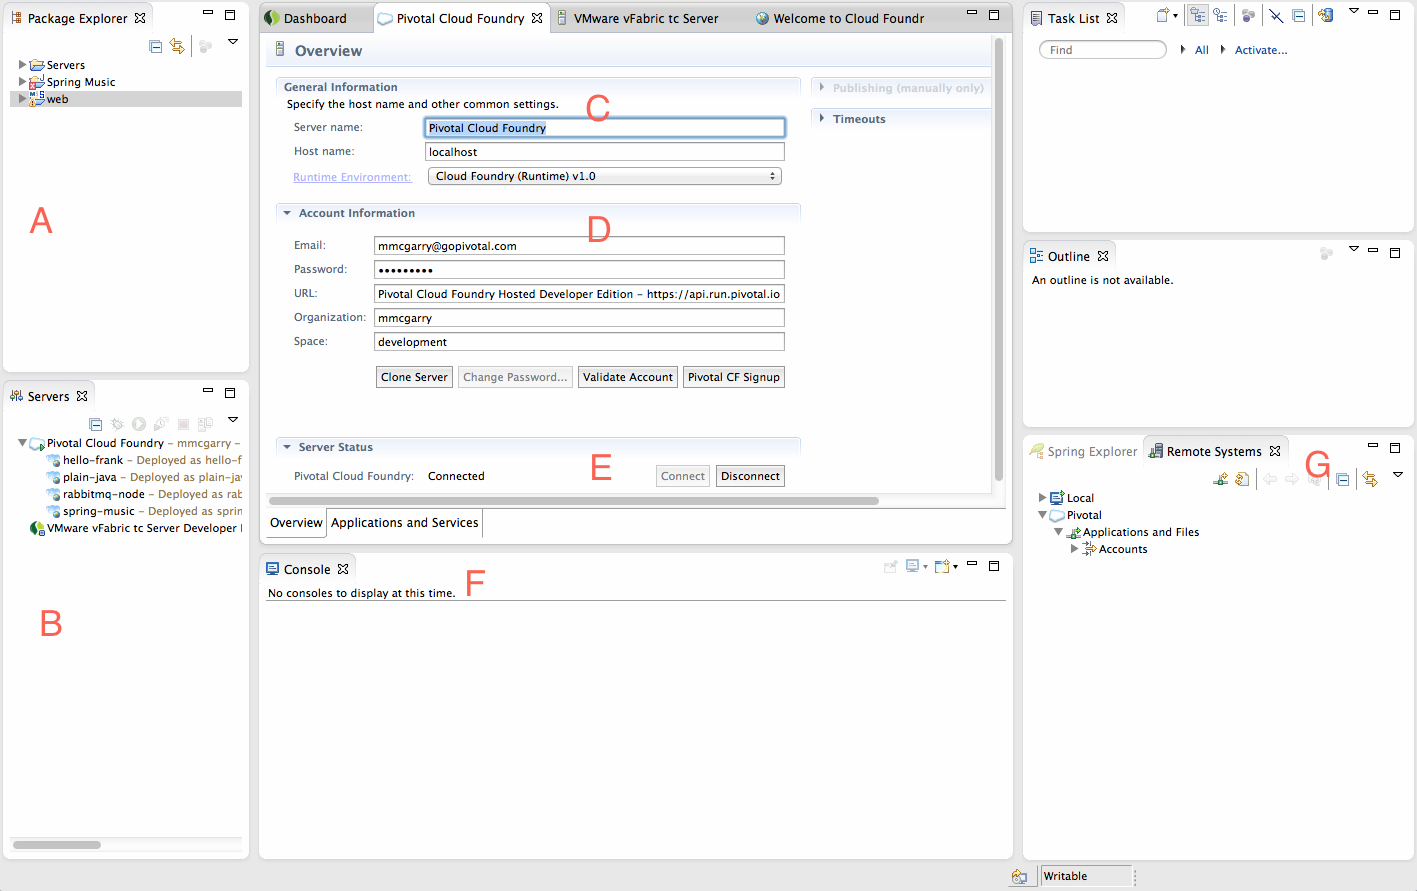
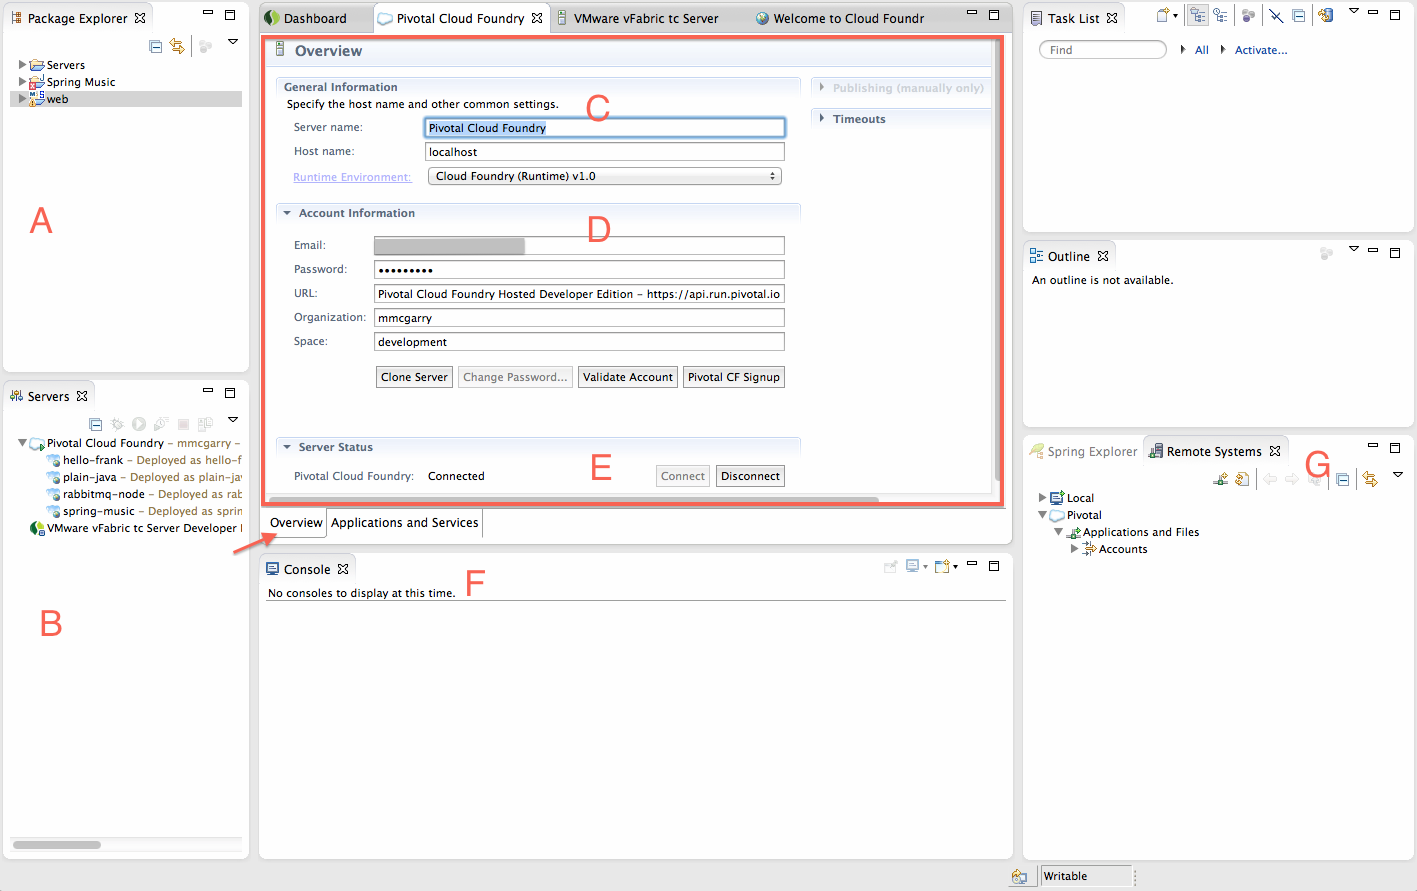
sts plugin

diff --git a/source/docs/using/managing-apps/ide/sts.html.md b/source/docs/using/managing-apps/ide/sts.html.md
@@ -4,15 +4,15 @@ title: Cloud Foundry Eclipse Plugin
 
 **5 September 2013 - This page is a work in progress, and contains information that is subject to review, correction, and enhancement.**
 
-The Cloud Foundry Eclipse is a plugin for Eclipse and Spring Tools Suite (STS) for deploying and managing Java and Spring applications on Cloud Foundry. 
+The Cloud Foundry Eclipse Plugin is an extension that enables Cloud Foundry users to deploy and manage Java and Spring applications on a Cloud Foundry instance from Eclipse or Spring Tools Suite (STS).
 
-The plugin supports Eclipse v3.8 and v4.3 (a JEE version is recommended(, and STS 3.0.0 and later.
+The plugin supports Eclipse v3.8 and v4.3 (a JEE version is recommended), and STS 3.0.0 and later.
 
 This page has instructions for installing and using v1.5.1 of the plugin, which is compatible with Cloud Foundry v2.
 
 You can use the plugin to:
 
-* Deploy applications from an Eclipse or STS workspace to a running Cloud Foundry instance. the plugin supports Spring, Java, Java standalone, Web, Grails, and Lift application.
+* Deploy applications from an Eclipse or STS workspace to a running Cloud Foundry instance. The plugin supports Spring, Java, Java standalone, Web, Grails, and Lift applications.
 * Create, bind, and unbind services.
 * View and manage deployed applications and services.
 * Start and stop applications.
@@ -27,16 +27,16 @@ v1.5.1 of the plugin provides several new features:
 The sections below have instructions for installing the Cloud Foundry Eclipse Plugin.
 ### <a id='install-to-eclipse'></a>Install to Eclipse from Marketplace ###
 
-Follow these instructions to instally the Cloud Foundry Eclipse Plugin to Eclipse from the Eclipse Marketplace.
+Follow these instructions to install the Cloud Foundry Eclipse Plugin to Eclipse from the Eclipse Marketplace. If you are installing the plugin to STS, see the following section [Install to STS from Extensions Tab](#install-to-sts).
 
 1. Start Eclipse
 1. Select **Eclipse Marketplace** from the Eclipse **Help** menu.
+1. On the marketplace window, enter "Cloud Foundry" in the **Find** field, and click **Go**.
+1. In the search results, click the **Install** control next to the listing for Cloud Foundry Integration.
 
   <img src="/images/sts/eclipse-marketplace.png"/>  
 
-1. On the marketplace pane, enter "Cloud Foundry" in the **Find** field, and click **Go**.
-1. In the search results, click the **Install** control next to the listing for CLoud Foundry Integration.
-1. On the **Confirm Selected Features" pane, click **Confirm**.
+1. The **Confirm Selected Features** window lists the plugin --- "Cloud Foundry Integration for Eclipse" --- and the optional "SpringSource UAA Integration" component, which reports tool usage data, anonymously. If you prefer that your plugin usage statistics not be reported, de-select the UAA component before clicking **Confirm**.
 
      <img src="/images/sts/confirm-selected-features.png" />
 
@@ -47,16 +47,16 @@ Follow these instructions to instally the Cloud Foundry Eclipse Plugin to Eclips
 
 ### <a id='install-to-sts'></a>Install to STS from Extensions Tab ###
 
-Follow these instructions to instally the Cloud Foundry Eclipse Plugin to STS from the Extensions tab.
+Follow these instructions to install the Cloud Foundry Eclipse Plugin to STS from the **Extensions** tab.
 
 1. Start STS.
 1. Select the **Extensions** tab from the STS Dashboard.
-1. Enter "Cloud Foundry in the **Find** field.
+1. Enter "Cloud Foundry" in the **Find** field.
 1. Select **Cloud Foundry Integration for Eclipse** and click **Install**.
 
   <img src="/images/sts/extensions.png" />
 
-1. The **Install** window lists the plugin --- "Cloud Foundry Integration for Eclipse" --- and the optional "Spring UAA Integration" component, which reports tool usage data, anonymously. If you prefer that your plugin usage statistics not be reported, deselect the UAA component beform clicking  **Next**.
+1. The **Install** window lists the plugin --- "Cloud Foundry Integration for Eclipse" --- and the optional "Spring UAA Integration" component, which reports tool usage data, anonymously. If you prefer that your plugin usage statistics not be reported, de-select the UAA component beform clicking  **Next**.
 
   <img src="/images/sts/install.png"/>
 
@@ -70,25 +70,21 @@ Follow these instructions to instally the Cloud Foundry Eclipse Plugin to STS fr
 
      <img src="/images/sts/restart-sts.png" />
 
-1. After STS restarts, you can see the new panes in the Editor portion of the screen.
-
-     <img src="/images/sts/plugin.png" style="width: 1100px;"/>
-
-1. Installation is complete. Proceed to [Create a Cloud Foundry Server](#cloud-foundry-server).
+1. After STS restarts, you can see new panes in the Editor portion of the screen. See [About the Plugin User Interface](#plugin-ui) below for a description of the plugin tabs and the information in each.
+1. Proceed to [Create a Cloud Foundry Server](#cloud-foundry-server).
 
 ## <a id='cloud-foundry-server'></a>Create a Cloud Foundry Server ##
 
-This section has instructons for configuring a server resource that will represent a target Cloud Foundry space. You will create a server for each space in your Cloud Foundry instance to which you will deploy applications.
+This section has instructions for configuring a server resource that will represent a target Cloud Foundry space. You will create a server for each space in your Cloud Foundry instance to which you will deploy applications.
 
 1. Right-click the **Servers** pane and select **New > Server**. 
- 
 1. In the **Define a New Server** window, expand the **Pivotal** folder, select **Cloud Foundry**, and click **Next**.  
 
      <img src="/images/sts/define-new-server.png" />
 
-1. On the **Cloud Foundry Account** window:
-      * If you already have a Cloud Foundry account enter the email account and password you use to log on to Cloud Foundry Click **Validate Account**. 
-      * If you do not have a Cloud Foundry account you can click **Pivotal CF Signup** to get one.
+1. On the **Cloud Foundry Account** window, if you already have a Cloud Foundry account enter the email account and password you use to log on to Cloud Foundry Click **Validate Account**. 
+
+  If you do not have a Cloud Foundry account you can click **Pivotal CF Signup** to get one, and complete this procedure after your account is established.
 
      <img src="/images/sts/cloud-foundry-account.png" />
 
@@ -100,14 +96,67 @@ This section has instructons for configuring a server resource that will represe
 
       <img src="/images/sts/orgs-and-spaces.png" />
 
+1. Once you have successfully configured the Pivotal Cloud Foundry server, it will appear in the **Servers** pane of the Eclipse or STS user interface. To familiarize yourself with the plugin user interface, see [About the Plugin User Interface](#plugin-ui). When you are ready, proceed to [Deploy an Application](#deploy-an-application).     
+
 ## <a id='plugin-ui'></a>About the Plugin User Interface ##
 
+The paragraphs below describe the Cloud Foundry Eclipse plugin user interface. If you do not see the tabs described below, select the Pivotal Cloud Founder server in the **Servers** pane.
 
-## <a id='deploying-an-application'></a>Deploy an Application ##
-To deploy an application to Cloud Foundry, you can either:
+### <a id='overview-tab'></a>Overview Tab ###
 
-* Drag the application frp, onto the Cloud Foundry server in the “Servers” view. 
-* select the “Add and Remove …” option from the server’s context-menu
+The follow panes are present when the **Overview** tab is selected:
+
+* A --- The **Package Explorer** pane lists the projects in the current workspace. 
+* B -- The **Servers** tab lists server instances configured in the current workspace. A server of type "Pivotal Cloud Foundry" represents a targeted space in a Cloud Foundry instance. 
+* C -- The **General Information** pane lists...
+* D -- The **Account Information** pane lists your credentials for the target Cloud Foundry instance and the specific organization and space that are targeted. The pane includes these controls:
+    * **Clone Server** --- Click to create additional Pivotal Cloud Foundry server instances. You must configure a server instance for each Cloud Foundry space you wish to target. For more information, see [Create Additional Server Instances](#clone).
+    * **Change Password** --- Click to change your Cloud Foundry password.
+    * **Validate Account** --- Click to verify your currently configured Cloud Foundry credentials
+    * **Pivotal CF Signup** --- If you do not have a Cloud Foundry account, click to sign up for one.
+* E -- The **Server Status** pane shows whether or not you are connected to Cloud Foundry space that the currently selected server instance targets. When you have multiple Pivotal Cloud Foundry server instances configured, you will use the **Disconnect** and **Connect** controls to switch among them.
+* F -- The **Console** pane displays status messages when you perform an action such as deploying an application.
+
+<img src="/images/sts/ui-overview-tab.png" style="width: 1150px;"/>
+
+### <a id='apps-services-tab'></a>Applications and Services Tab ###
+
+The follow panes are present when the *Applications and Services* tab is selected: 
+
+* H --- The **Applications** pane lists the applications deployed to the targeted space.
+* I --  The **Services** pane lists the services provisioned in the targeted space
+* J --  The **General** pane displays information for the application currently selected in the **Applications** pane.
+* K --  The **Services** pane lists services that are bound to the application currently selected in the **Applications** pane.
+
+<img src="/images/sts/ui-apps-services-tab.png" style="width: 1150px;" />
+
+<img src="/images/sts/new-server.png" />
+
+## <a id='deploy-an-application'></a>Deploy an Application ##
+To deploy an application to Cloud Foundry using the plugin: 
+
+1. To initiate deployment either:
+* Drag the application from the **Package Explorer** pane onto the Pivotal Cloud Foundry server in the **Servers** pane, or
+* Right-click the Pivotal Cloud Foundry server in the **Servers** pane, select **Add and Remove* from the server context menu, and then 
+1. On the **Application Details** window, you can enter the URL of an external buildpack if desired. Click **Next** to continue.
+
+      <img src="/images/sts/application-details.png" />
+
+1. On the **Launch Deployment** window:
+
+* **Host** --- By default, contains the name of the application.
+* **Domain** --- By default, contains
+* **Deployed URL** --- 
+* **Memory Reservation** --- Select the amount of memory to allocate to the application from the pull-down list.
+* **Start application...** --- If you do not want the application to be started upon deployment, uncheck the box.
+
+      <img src="/images/sts/launch-deployment.png" />
+
+1. The **Services Selection** window lists services provisioned in the target space. Checkmark the services, if any, that you want to bind to the application, and click **Finish**. Note that you can bind services to the application after deployment.  
+
+      <img src="/images/sts/services-selection.png" />
+
+   As the deployment proceeds, progress messages appear in the **Console** pane. When deployment is complete, the application is listed in the ** Applications** pane.   
 
 ## <a id='view-file'></a>View an Application File ##
 1. vvccb vcbv vb c
@@ -118,12 +167,29 @@ To deploy an application to Cloud Foundry, you can either:
 
       <img src="/images/sts/file-contents.png" />
 
+## <a id='undeploy'></a>Undeploy an Application##
 
 
 ## <a id='scale-application'></a>Scale an Application ##
 
-## <a id='add URL'></a>Add a Cloud Foundry Instance URL ##
-     <img src="/images/sts/manage-cloud-urls.png" />
+You can change the memory allocation for an application and the number of instances deployed in the **General** pane when the **Applications and Services** tab is selected.  Use the **Memory Limit** and **Instances** selector lists. 
 
-     <img src="/images/sts/add-cloud-url.png" />
+## <a id='scale-application'></a>Manage Application URLs##
+
+You add, edit, and remove URLs mapped to the currently selected application in the **General** pane when the **Applications and Services** tab is selected.  Click the pencil icon to display the **Mapped URIs Configuration** pane. 
+
+      <img src="/images/sts/manage-uris-configuration.png" />
+
+## <a id='clone'></a>Create Additional Server Instances ##
+
+
+## <a id='add-URL'></a>Add a Cloud Foundry Instance URL ##
+
+1. step 1 here
+     
+      <img src="/images/sts/manage-cloud-urls.png" />
+
+2. step 2 here
+
+      <img src="/images/sts/add-cloud-url.png" />
 
